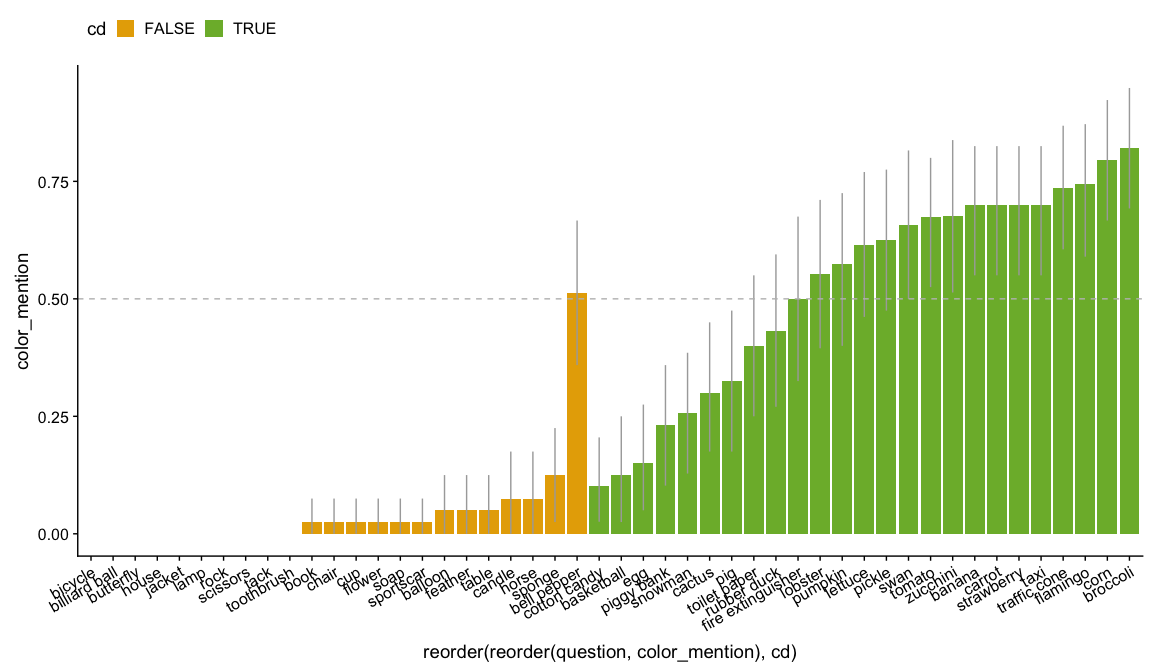
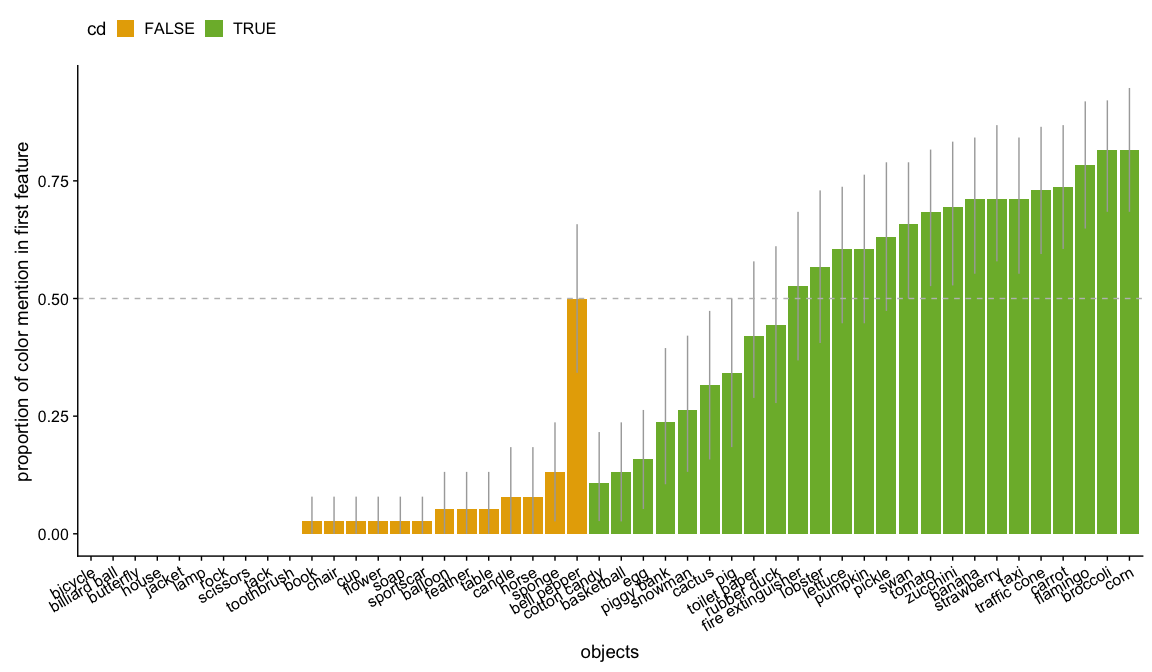
add all feature analysis

diff --git a/analyses/01_norming/02_main/01_ListFeature-norming/README.md b/analyses/01_norming/02_main/01_ListFeature-norming/README.md
@@ -11,17 +11,38 @@ Objects which were rated unknown
 
 ![](analysis_files/figure-markdown_github/obj_unknown-1.png)
 
-Plot proportion of color mention for first feature
---------------------------------------------------
+Plot proportion of color mention (only cd)
+------------------------------------------
+
+#### Only first feature
 
 ![](analysis_files/figure-markdown_github/plot%20first%20feature%20cdonly-1.png)
 
+#### All features
+
+![](analysis_files/figure-markdown_github/plot%20all%20features%20cdonly-1.png)
+
+Plot proportion of color mention (cd & non cd)
+----------------------------------------------
+
+#### Only first feature
+
 ![](analysis_files/figure-markdown_github/plot%20first%20feature%20all-1.png)
+
+#### All features
+
+![](analysis_files/figure-markdown_github/plot%20all%20features%20all-1.png)
 
 Color utterances for each item (split by cd and non-cd)
 -------------------------------------------------------
 
-![](analysis_files/figure-markdown_github/cd-1.png)![](analysis_files/figure-markdown_github/cd-2.png)
+#### Only first feature
+
+![](analysis_files/figure-markdown_github/first%20feature%20colors-1.png)![](analysis_files/figure-markdown_github/first%20feature%20colors-2.png)
+
+#### All features
+
+![](analysis_files/figure-markdown_github/all%20features%20colors-1.png)![](analysis_files/figure-markdown_github/all%20features%20colors-2.png)
 
 Find typos
 ----------
